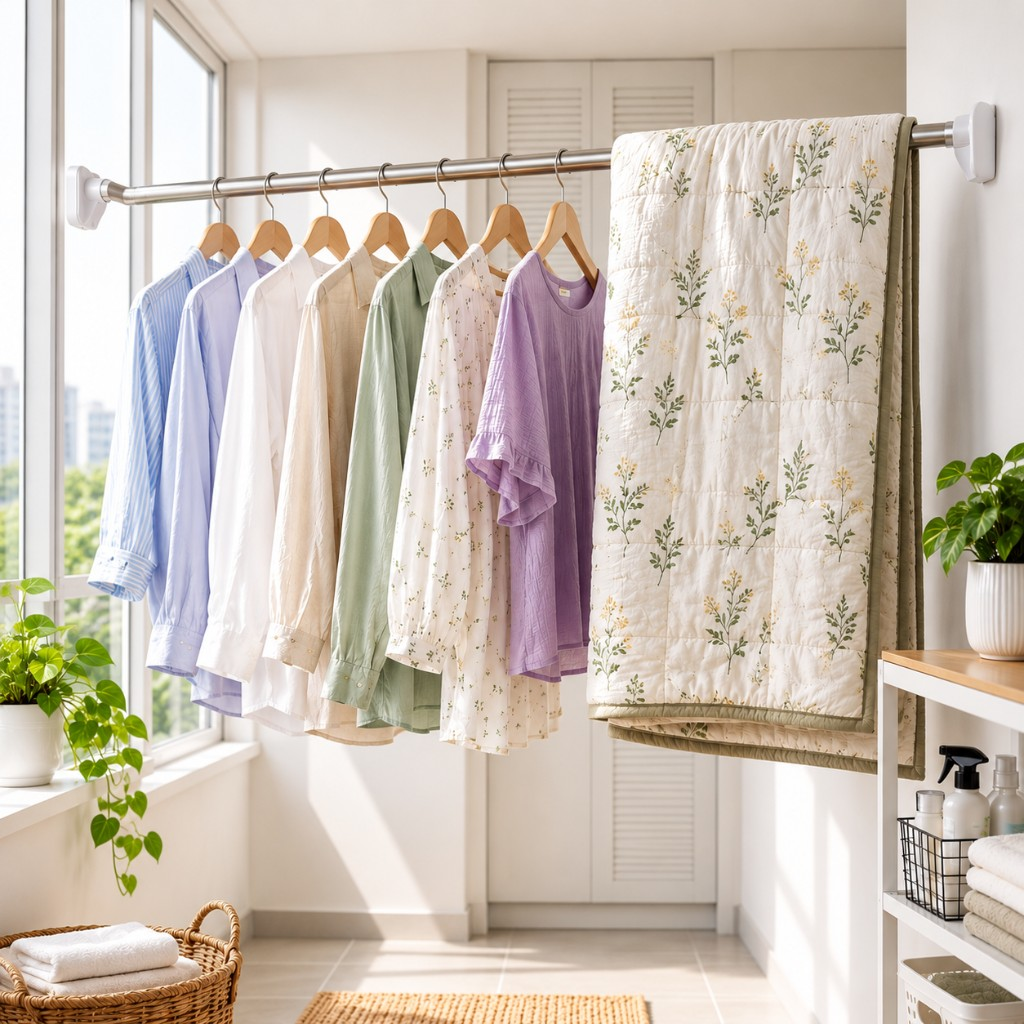
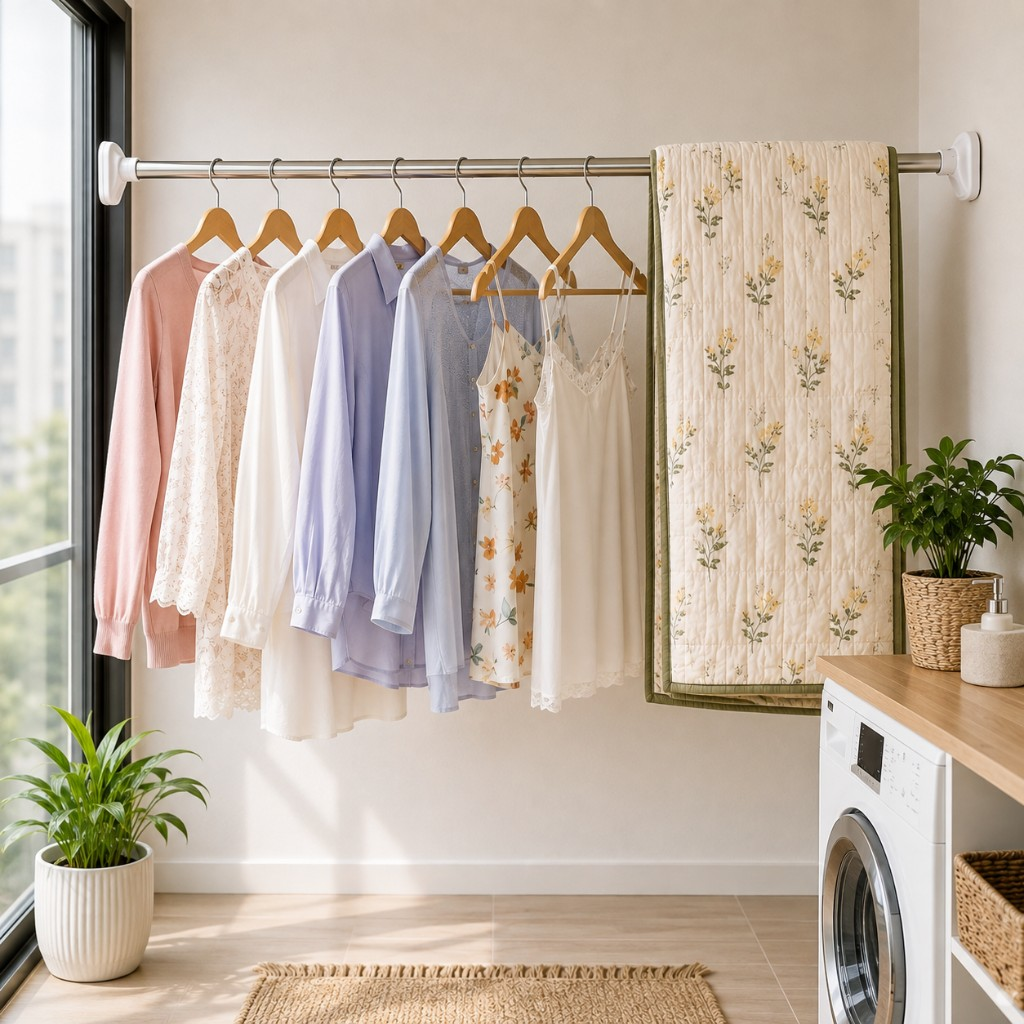
Update solution section photo on barra telescopica page.

diff --git a/barra-telescopica-panama.html b/barra-telescopica-panama.html
@@ -134,7 +134,7 @@
   <section class="feature story-step is-reversed">
     <div class="feature-inner">
       <div class="feature-media feature-media--square">
-        <img src="/images/barra-telescopica-solucion.png?v=20260830s" alt="Barra telescópica en lavandería con ropa y cobija colgando" width="1024" height="1024" loading="lazy" decoding="async">
+        <img src="/images/barra-telescopica-solucion.png?v=20260830s3" alt="Barra telescópica en lavandería con ropa y cobija colgando" width="1024" height="1024" loading="lazy" decoding="async">
       </div>
       <div class="feature-copy">
         <h2>Cuelga y seca donde realmente lo necesitas</h2>
